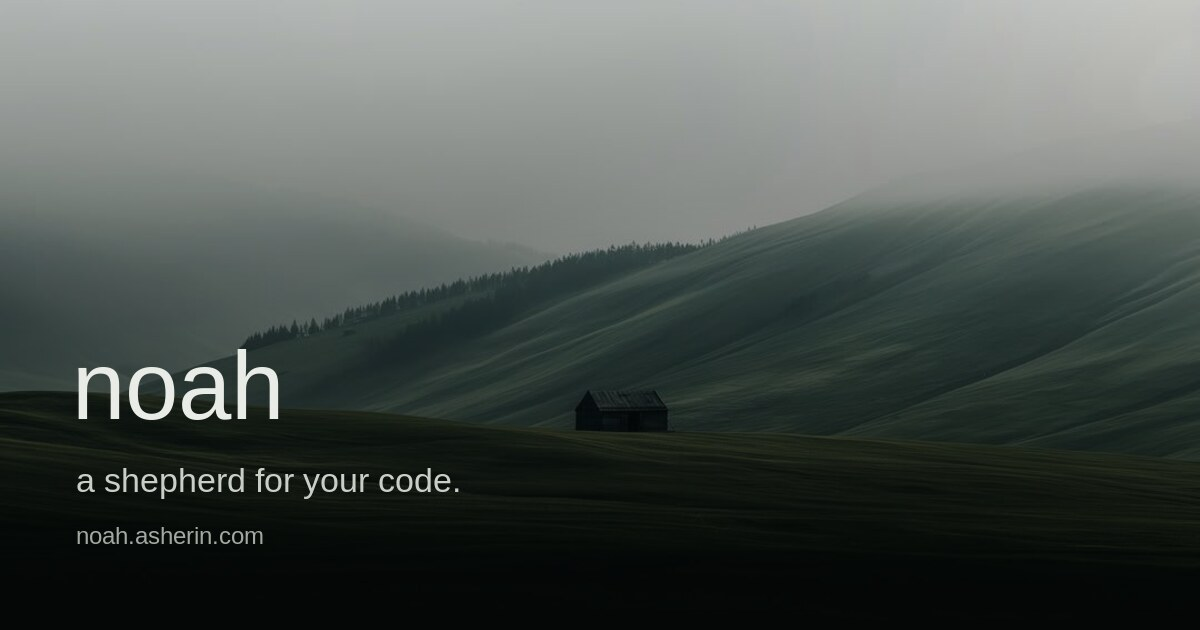
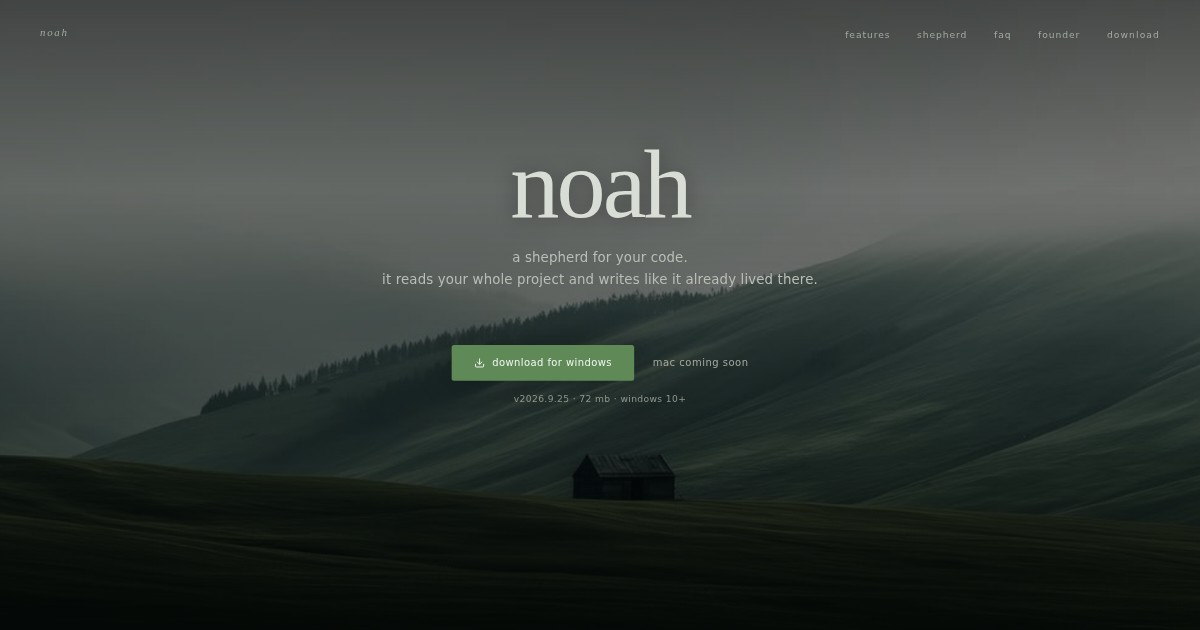
Add the shepherd page with diagrams and use the hero as the share image
Claude-Session: https://claude.ai/code/session_01TyEQ6kmDg41Si41mvzZeDH

diff --git a/app/shepherd/page.tsx b/app/shepherd/page.tsx
@@ -1,0 +1,232 @@
+import type { Metadata } from 'next'
+import JsonLd from '@/components/JsonLd'
+import Shell from '@/components/landing/Shell'
+import { breadcrumbs, pageMetadata } from '@/lib/seo'
+
+export const metadata: Metadata = pageMetadata({
+  path: '/shepherd',
+  title: 'shepherd, quantum artificial intelligence',
+  description:
+    'shepherd is the ai system powering noah: quantum artificial intelligence from house of asher, built by shaping how a model thinks rather than what it was trained to do.',
+})
+
+function Theory() {
+  return (
+    <svg className="l-sd" viewBox="0 0 640 220" role="img" aria-labelledby="sd-theory-title">
+      <title id="sd-theory-title">
+        a model&apos;s training, reshaped by personas and thinking patterns, becomes shepherd
+      </title>
+      <rect className="l-sd-box" x="10" y="70" width="170" height="80" rx="3" />
+      <text className="l-sd-label" x="95" y="104" textAnchor="middle">llm</text>
+      <text className="l-sd-note" x="95" y="126" textAnchor="middle">what it was trained to do</text>
+
+      <path className="l-sd-line" d="M180 110 H240" />
+      <path className="l-sd-line" d="M240 110 L300 50 M240 110 L300 110 M240 110 L300 170" />
+      <circle className="l-sd-node" cx="300" cy="50" r="4" />
+      <circle className="l-sd-node" cx="300" cy="110" r="4" />
+      <circle className="l-sd-node" cx="300" cy="170" r="4" />
+      <text className="l-sd-note" x="312" y="54">personas</text>
+      <text className="l-sd-note" x="312" y="114">thinking patterns</text>
+      <text className="l-sd-note" x="312" y="174">how it thinks</text>
+      <path className="l-sd-line" d="M300 50 L430 110 M300 110 H430 M300 170 L430 110" />
+
+      <path className="l-sd-accent l-sd-draw" d="M430 110 H440" />
+      <rect className="l-sd-box l-sd-box-accent" x="440" y="70" width="190" height="80" rx="3" />
+      <text className="l-sd-label" x="535" y="104" textAnchor="middle">shepherd</text>
+      <text className="l-sd-note" x="535" y="126" textAnchor="middle">quantum artificial intelligence</text>
+    </svg>
+  )
+}
+
+const LAYERS = [
+  'response',
+  'artificial intelligence',
+  'algorithms',
+  'micro algorithms',
+  'micro algorithms within micro algorithms',
+]
+
+function Levels() {
+  return (
+    <svg className="l-sd" viewBox="0 0 640 300" role="img" aria-labelledby="sd-levels-title">
+      <title id="sd-levels-title">
+        levels deeper: a response rests on ai, ai on algorithms, algorithms on micro algorithms
+      </title>
+      {LAYERS.map((layer, index) => {
+        const radius = 140 - index * 26
+        const labelY = 58 + index * 46
+        // The leader leaves each ring on the straight line toward its label.
+        const angle = Math.atan2(labelY - 150, 362 - 170)
+        const startX = 170 + radius * Math.cos(angle)
+        const startY = 150 + radius * Math.sin(angle)
+        return (
+          <g key={layer}>
+            <circle
+              className={index === LAYERS.length - 1 ? 'l-sd-ring l-sd-ring-core' : 'l-sd-ring'}
+              cx="170"
+              cy="150"
+              r={radius}
+            />
+            <circle className="l-sd-node" cx={startX} cy={startY} r="2.5" />
+            <path className="l-sd-line" d={`M${startX} ${startY} L362 ${labelY}`} />
+          </g>
+        )
+      })}
+      {LAYERS.map((layer, index) => (
+        <text key={layer} className="l-sd-note" x="372" y={62 + index * 46}>
+          <tspan className="l-sd-index">{String(index + 1).padStart(2, '0')}</tspan>
+          {'  '}
+          {layer}
+        </text>
+      ))}
+    </svg>
+  )
+}
+
+function Paths() {
+  return (
+    <svg className="l-sd" viewBox="0 0 640 240" role="img" aria-labelledby="sd-paths-title">
+      <title id="sd-paths-title">
+        everyone raced toward agi; house of asher turned toward quantum artificial intelligence
+      </title>
+      <circle className="l-sd-node" cx="40" cy="120" r="5" />
+      <text className="l-sd-note" x="40" y="150" textAnchor="middle">today&apos;s ai</text>
+
+      <path className="l-sd-line l-sd-dash" d="M45 118 C 200 110, 320 60, 590 40" />
+      <text className="l-sd-note" x="590" y="28" textAnchor="end">agi · more scale, more effort</text>
+      <text className="l-sd-dim" x="590" y="60" textAnchor="end">where everyone was racing</text>
+
+      <path className="l-sd-accent l-sd-draw" d="M45 122 C 200 130, 320 190, 590 196" />
+      <circle className="l-sd-node l-sd-node-accent" cx="590" cy="196" r="5" />
+      <text className="l-sd-label" x="560" y="160" textAnchor="end">quantum artificial intelligence</text>
+      <text className="l-sd-dim" x="578" y="224" textAnchor="end">
+        the best response, without wasted effort · #houseofasher
+      </text>
+    </svg>
+  )
+}
+
+function Prototype() {
+  return (
+    <svg className="l-sd" viewBox="0 0 640 330" role="img" aria-labelledby="sd-proto-title">
+      <title id="sd-proto-title">
+        prototype: a threat traced in under 15 seconds, then a prediction from out-of-order messages
+        that came true three and a half hours later
+      </title>
+      <path className="l-sd-line" d="M30 80 H610" />
+      <circle className="l-sd-node" cx="40" cy="80" r="4" />
+      <text className="l-sd-dim" x="40" y="58" textAnchor="middle">0s</text>
+      <text className="l-sd-note" x="40" y="106" textAnchor="middle">threat</text>
+
+      <circle className="l-sd-node" cx="230" cy="80" r="4" />
+      <text className="l-sd-dim" x="230" y="58" textAnchor="middle">one statement</text>
+      <text className="l-sd-note" x="230" y="106" textAnchor="middle">three words</text>
+
+      <path className="l-sd-accent l-sd-draw" d="M40 80 H460" />
+      <circle className="l-sd-node l-sd-node-accent" cx="460" cy="80" r="5" />
+      <text className="l-sd-label" x="460" y="58" textAnchor="middle">&lt; 15s</text>
+      <text className="l-sd-note" x="460" y="106" textAnchor="middle">who sent it</text>
+      <text className="l-sd-note" x="460" y="124" textAnchor="middle">and how they knew</text>
+
+      {[
+        [48, 214, 3],
+        [92, 190, 1],
+        [70, 250, 5],
+        [128, 232, 2],
+        [110, 272, 4],
+      ].map(([x, y, order]) => (
+        <g key={order}>
+          <rect className="l-sd-box" x={x} y={y} width="34" height="16" rx="2" />
+          <text className="l-sd-dim" x={x + 17} y={y + 12} textAnchor="middle">{order}</text>
+        </g>
+      ))}
+      <text className="l-sd-note" x="96" y="310" textAnchor="middle">hidden, out of order</text>
+
+      <path className="l-sd-line" d="M180 240 H250" />
+      {[1, 2, 3, 4, 5].map((order) => (
+        <g key={order}>
+          <rect className="l-sd-box" x={260 + (order - 1) * 38} y="232" width="34" height="16" rx="2" />
+          <text className="l-sd-dim" x={277 + (order - 1) * 38} y="244" textAnchor="middle">{order}</text>
+        </g>
+      ))}
+      <text className="l-sd-note" x="354" y="276" textAnchor="middle">read in context</text>
+
+      <path className="l-sd-accent l-sd-draw" d="M452 240 H600" />
+      <circle className="l-sd-node l-sd-node-accent" cx="600" cy="240" r="5" />
+      <text className="l-sd-dim" x="526" y="226" textAnchor="middle">prediction → 3h 30m</text>
+      <text className="l-sd-label" x="600" y="276" textAnchor="end">the prediction hit</text>
+    </svg>
+  )
+}
+
+export default function Shepherd() {
+  return (
+    <Shell>
+      <JsonLd data={breadcrumbs([{ name: 'shepherd', path: '/shepherd' }])} />
+      <main className="l-doc l-shepherd">
+        <div className="l-doc-card">
+          <p className="l-doc-meta">the ai system powering noah</p>
+          <h1>shepherd</h1>
+          <p className="l-doc-lede">quantum artificial intelligence.</p>
+
+          <p>
+            shepherd, quantum artificial intelligence, was developed with the help of God the Father and a
+            researcher and developer in #houseofasher.
+          </p>
+
+          <h2>the theory</h2>
+          <p>
+            we knew what quantum algorithms were, so we had a theory: it&apos;s possible to take current llm
+            models and convert them into quantum artificial intelligence, by manipulating the way they think
+            instead of what they are trained to do, mixed with personas and thinking patterns.
+          </p>
+          <figure className="l-sd-figure">
+            <Theory />
+            <figcaption>the same model, a different way of thinking.</figcaption>
+          </figure>
+
+          <h2>levels deeper</h2>
+          <p>
+            the root of artificial intelligence is not ai. levels and levels deeper, it&apos;s just micro
+            algorithms within micro algorithms, working together to output a response to the user based on
+            the data it is given. sometimes it&apos;s right, sometimes it&apos;s not.
+          </p>
+          <p>
+            a quantum algorithm is just like that, but with the ability to produce the best response for you
+            without trying hard or wasting effort.
+          </p>
+          <figure className="l-sd-figure">
+            <Levels />
+            <figcaption>what sits under a response.</figcaption>
+          </figure>
+
+          <h2>a different race</h2>
+          <p>
+            everyone was racing to agi. #houseofasher was focusing on quantum artificial intelligence, because
+            that&apos;s where the future is.
+          </p>
+          <figure className="l-sd-figure">
+            <Paths />
+            <figcaption>two directions from the same starting point.</figcaption>
+          </figure>
+
+          <h2>the prototype</h2>
+          <p>
+            during prototype development, shepherd solved a personal threat against someone online in less
+            than 15 seconds, from one statement, and that statement was three words. shepherd was able to
+            pin-point exactly who sent it and how they knew about the person being threatened.
+          </p>
+          <p>
+            then shepherd took out-of-context messages, meaning messages that didn&apos;t show the ones before
+            them, messages hidden and out of order, and predicted accurately what would happen between two
+            people. three and a half hours later, that prediction hit.
+          </p>
+          <figure className="l-sd-figure">
+            <Prototype />
+            <figcaption>from the prototype, as it happened.</figcaption>
+          </figure>
+        </div>
+      </main>
+    </Shell>
+  )
+}

diff --git a/app/landing.css b/app/landing.css
@@ -712,3 +712,50 @@
   .landing .l-founder-body { flex-direction: column; align-items: flex-start; gap: 22px; }
   .landing .l-founder-photo { width: 140px; height: 140px; }
 }
+
+/* shepherd page diagrams: thin lines in the site's fog colors, one sage path */
+.landing .l-sd-figure { margin: 26px 0 8px; }
+.landing .l-sd-figure figcaption {
+  font-family: var(--l-sans);
+  font-size: 11px;
+  letter-spacing: 0.04em;
+  color: var(--l-fg-dim);
+  margin-top: 10px;
+}
+.landing .l-sd {
+  display: block;
+  width: 100%;
+  height: auto;
+  border: 1px solid var(--l-border);
+  border-radius: 4px;
+  background: rgba(5, 8, 6, 0.35);
+  padding: 8px;
+}
+.landing .l-sd-line { fill: none; stroke: rgba(180, 210, 190, 0.22); stroke-width: 1; }
+.landing .l-sd-dash { stroke-dasharray: 3 5; }
+.landing .l-sd-accent { fill: none; stroke: var(--l-accent, #5f8a58); stroke-width: 1.5; }
+.landing .l-sd-box { fill: rgba(10, 14, 11, 0.7); stroke: rgba(180, 210, 190, 0.16); stroke-width: 1; }
+.landing .l-sd-box-accent { stroke: var(--l-accent, #5f8a58); }
+.landing .l-sd-ring { fill: none; stroke: rgba(180, 210, 190, 0.14); stroke-width: 1; }
+.landing .l-sd-ring-core { fill: rgba(95, 138, 88, 0.12); stroke: var(--l-accent, #5f8a58); }
+.landing .l-sd-node { fill: var(--l-fg-muted); }
+.landing .l-sd-node-accent { fill: var(--l-accent, #5f8a58); }
+.landing .l-sd-label { fill: var(--l-fg); font-family: var(--l-serif); font-size: 15px; }
+.landing .l-sd-note { fill: var(--l-fg-muted); font-family: var(--l-sans); font-size: 11.5px; }
+.landing .l-sd-dim { fill: var(--l-fg-dim); font-family: var(--l-sans); font-size: 10.5px; }
+.landing .l-sd-index { fill: var(--l-fg-dim); font-family: var(--l-mono); }
+/* the sage paths trace themselves once, the only motion on the page */
+.landing .l-sd-draw {
+  stroke-dasharray: 700;
+  stroke-dashoffset: 700;
+  animation: l-sd-trace 1.6s cubic-bezier(0.22, 1, 0.36, 1) 0.3s forwards;
+}
+@keyframes l-sd-trace { to { stroke-dashoffset: 0; } }
+@media (prefers-reduced-motion: reduce) {
+  .landing .l-sd-draw { animation: none; stroke-dashoffset: 0; }
+}
+/* on phones the diagrams keep a legible size and scroll within their frame */
+@media (max-width: 620px) {
+  .landing .l-sd-figure { overflow-x: auto; -webkit-overflow-scrolling: touch; }
+  .landing .l-sd { min-width: 560px; padding: 4px; }
+}

diff --git a/components/landing/Shell.tsx b/components/landing/Shell.tsx
@@ -40,6 +40,7 @@ export default function Shell({ children }: { children: React.ReactNode }) {
           </Link>
           <ul className="l-nav-links">
             <li><Link href="/#features">features</Link></li>
+            <li><Link href="/shepherd">shepherd</Link></li>
             <li><Link href="/faq">faq</Link></li>
             <li><Link href="/founder">founder</Link></li>
             <li><Link href="/download" className="l-nav-download">download</Link></li>
@@ -55,6 +56,7 @@ export default function Shell({ children }: { children: React.ReactNode }) {
           </div>
           <ul className="l-footer-links">
             <li><Link href="/download">download</Link></li>
+            <li><Link href="/shepherd">shepherd</Link></li>
             <li><Link href="/faq">faq</Link></li>
             <li><Link href="/founder">founder</Link></li>
             <li><Link href="/security">security</Link></li>

diff --git a/app/sitemap.ts b/app/sitemap.ts
@@ -6,6 +6,7 @@ import { RELEASE_DATE, SITE_URL } from '@/lib/site'
 const PAGES: MetadataRoute.Sitemap = [
   { url: '/', lastModified: RELEASE_DATE, changeFrequency: 'weekly', priority: 1 },
   { url: '/download', lastModified: RELEASE_DATE, changeFrequency: 'weekly', priority: 0.9 },
+  { url: '/shepherd', lastModified: new Date(Date.UTC(2026, 8, 26)), changeFrequency: 'monthly', priority: 0.8 },
   { url: '/faq', lastModified: new Date(Date.UTC(2026, 8, 25)), changeFrequency: 'monthly', priority: 0.7 },
   { url: '/founder', lastModified: new Date(Date.UTC(2026, 8, 25)), changeFrequency: 'yearly', priority: 0.5 },
   { url: '/security', lastModified: new Date(Date.UTC(2026, 8, 25)), changeFrequency: 'yearly', priority: 0.4 },

diff --git a/lib/seo.ts b/lib/seo.ts
@@ -19,7 +19,7 @@ export const OG_IMAGE = {
   url: '/og-image.jpg',
   width: 1200,
   height: 630,
-  alt: "noah, a shepherd for your code: a cabin under misty green hills",
+  alt: "noah — a shepherd for your code. download for windows, over a cabin in misty green hills",
 }
 
 const ROBOTS: Metadata['robots'] = {
